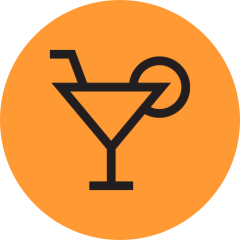
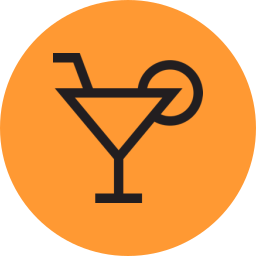
figuring out responsive scaling.

diff --git a/screens/HomeScreen.js b/screens/HomeScreen.js
@@ -54,11 +54,12 @@ export default class HomeScreen extends React.Component {
               <Spinner color='red'/>
                 <Ellipse cx="50%" cy="100%" rx="150" ry="100" stroke="orange" strokeWidth="7" fill="#fefefe"/>
                 <Circle cx="25%" cy="88%" r="20" fill="orange" onPressIn={() => {Alert.alert('Test for Press in')}}/>
-                <Image source={require('../assets/images/Restron.png')} style={{width:'10%', height:'10%'}}/>
-
                 <Circle cx="50%" cy="85%" r="24" fill="orange" />
-                <Image source={require('../assets/images/Club.png')} style={{width:'10%', height: '10%'}}/>
-                <Image source={require('../assets/images/Heart.png')} style={{width:'10%', height: '10%'}}/>
+                <View style={{flex: 1, flexDirection: 'row', justifyContent: 'space-between'}}>
+                <Image source={require('../assets/images/Restron.png')} style={{width: wp('10%'), height: hp('10%')}}/>
+                <Image source={require('../assets/images/Heart.png')}/>
+                <Image source={require('../assets/images/Club.png')} style={{width: wp('10%'), height: hp('10%')}}/>
+                </View>
                 <Circle cx="75%" cy="88%" r="20" fill="orange" onPressOut={() => {Alert.alert('Test for Press out')}} />
               </Svg>
             </View>
@@ -160,7 +161,7 @@ const styles = StyleSheet.create({
   },
   text:{
     color: 'black',
-    fontSize: hp('6%'),
+    fontSize: hp('3%'),
     fontWeight: 'bold',
     textAlign: 'center'
   },
@@ -169,7 +170,7 @@ const styles = StyleSheet.create({
     alignItems: 'flex-start',
     justifyContent: 'flex-start',
     color: 'orange',
-    fontSize: hp('5%'),
+    fontSize: hp('3%'),
     fontWeight: 'bold',
   }
 
